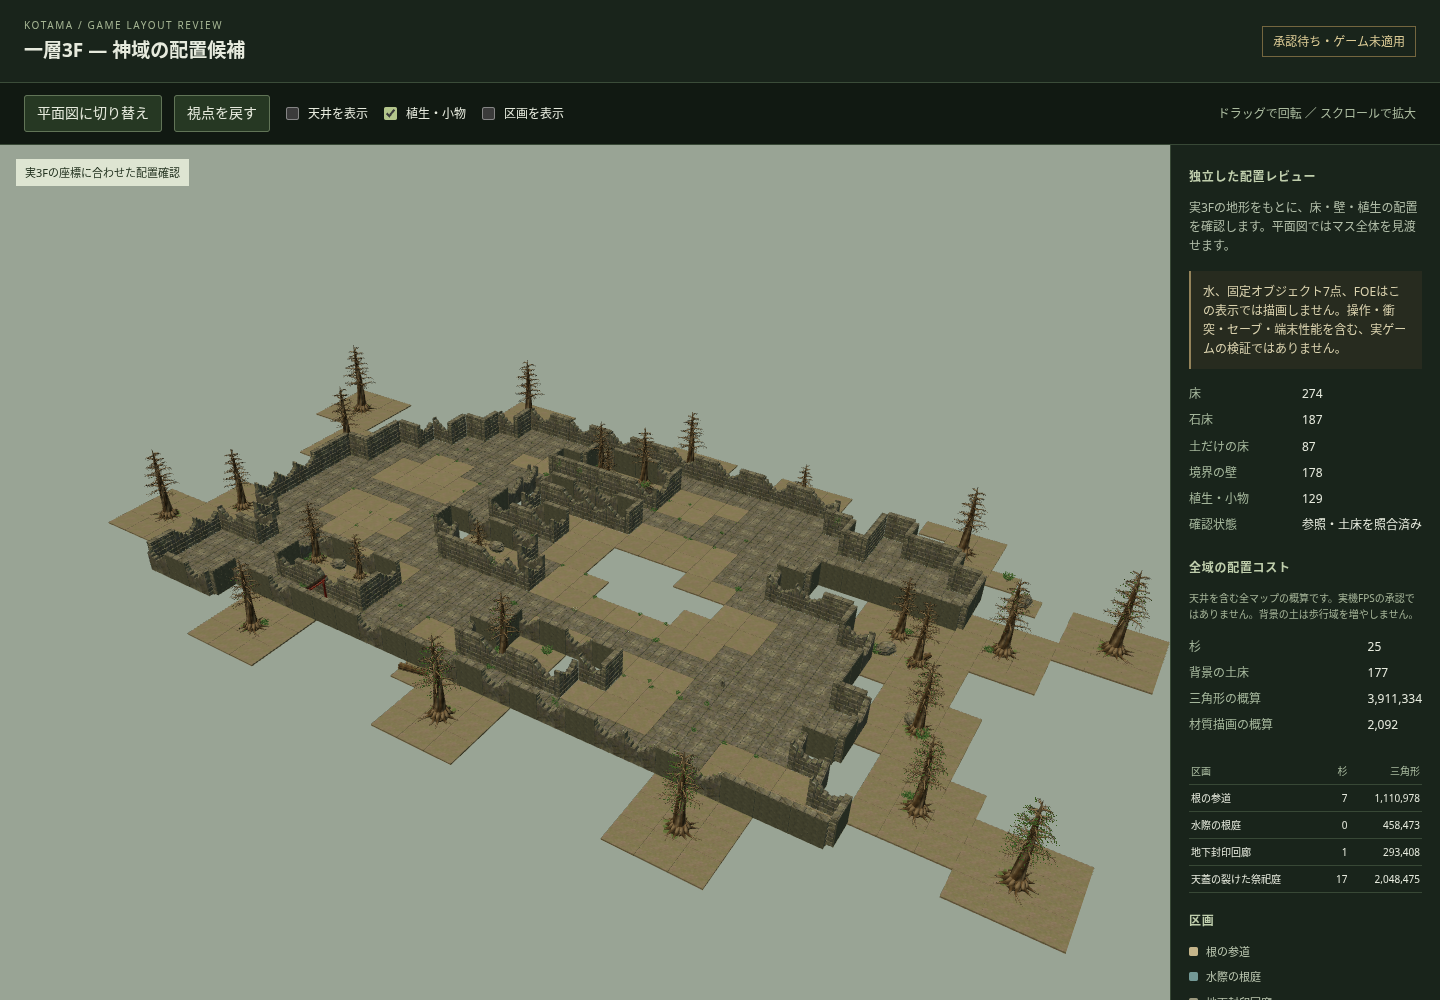
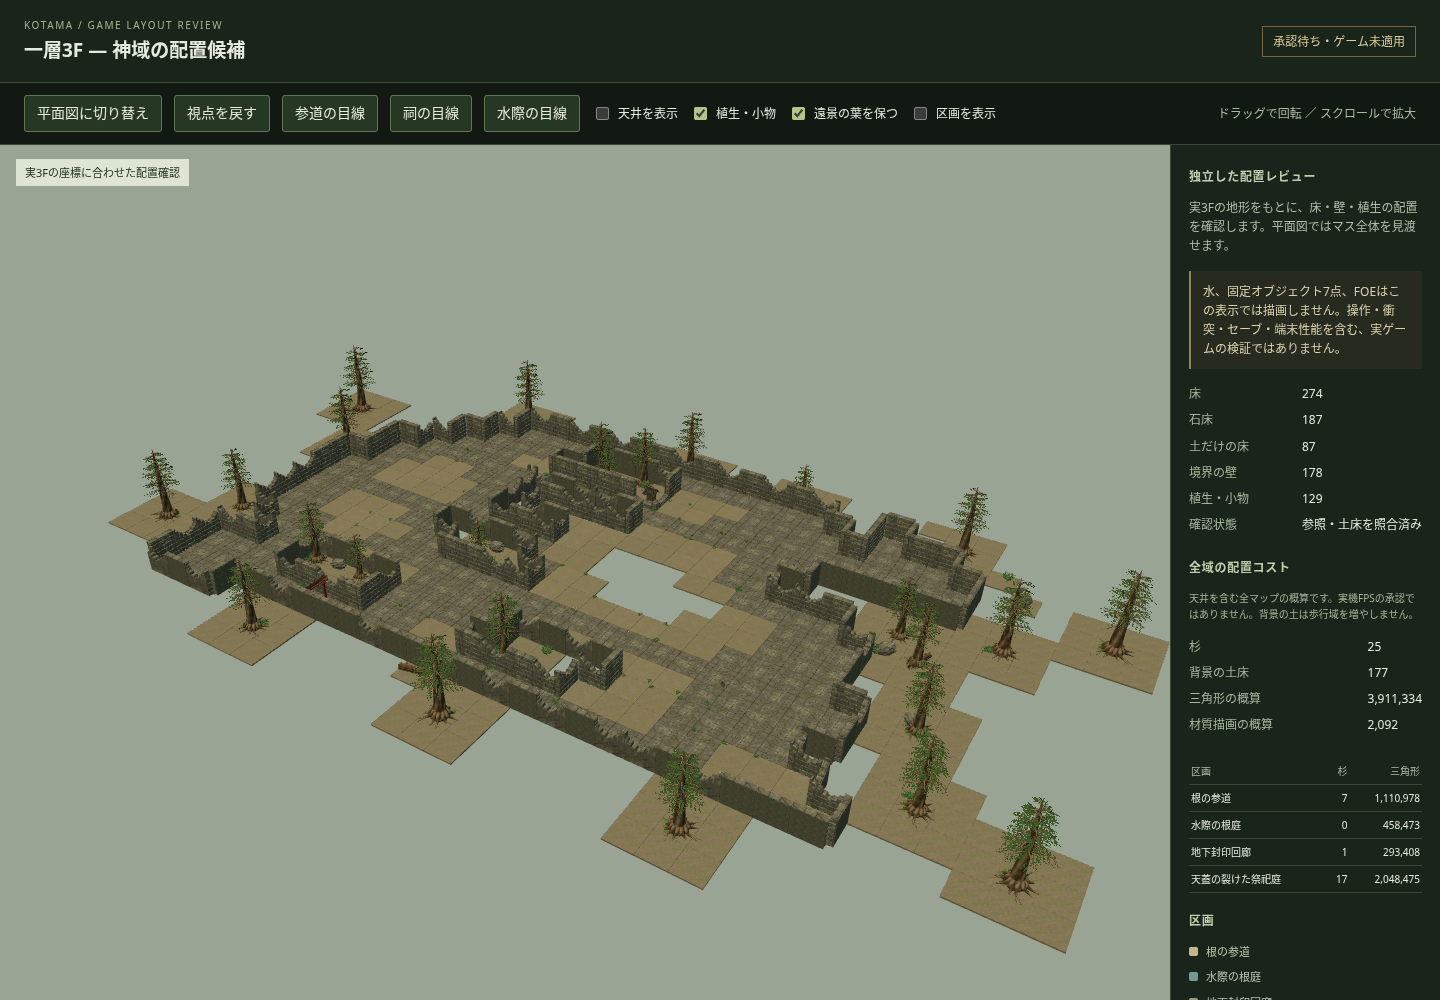
deliver(f1): preserve visible shrine and verified eye-height reviews

diff --git a/docs/3d/F1_SACRED_FOREST_CLAUDE_HANDOFF.md b/docs/3d/F1_SACRED_FOREST_CLAUDE_HANDOFF.md
@@ -87,3 +87,5 @@ mainへはユーザーの明示承認なしにマージしません。
 ### 開発ブランチ更新への対応
 
 2026-11-17にdevelopment `7708b03` と比較し、map・field・移動/FOE・操作・保存・puzzleの6 sourceは一致。共有rendererには描画統計とB2 cache版の変更があるため、7 source全一致とは扱わない。`verification/development-baseline-check.json`を参照。統合時は最新development側の変更を保持し、確認した完全commit SHAを `F1_LAYOUT_BASELINE=<40桁SHA> node tools/f1-sacred-forest/build_game_layout.cjs --require-assets` に指定して再生成・ブラウザ検証する。指定したbaselineと実sourceが違えば生成を拒否する。デフォルトの保存済み候補は元baseline ae7995aのまま。
+
+近景reviewは元walkセル中心/目高1.6m。祠の正面2壁は既存collapsed wallを縦0.32の低い囲いとし、178壁/通行不可は維持する。`preview/f1-foliage-coverage.js`は独立viewerの任意sampling補助で、source alphaCutoffを保持してmip coverageを補正する。採用する場合はGPUでのmip upload・テーマ破棄時のtexture lifetimeを対象環境で検証する。既にゲームへ導入したとは扱わない。

diff --git a/docs/reviews/f1-sacred-forest-game-layout/README.md b/docs/reviews/f1-sacred-forest-game-layout/README.md
@@ -24,3 +24,9 @@ node tools/f1-sacred-forest/verify-game-layout-preview.cjs
 ```
 
 ブラウザ検証の出力先は `/workspace/work/f1-game-layout-review/`。本フォルダは実行成功後のコピーであり、凍結したデモ5視点・68個別PNG・scene GLB/Blend・既存verificationとは別の記録。
+
+## 目高と遠景samplingの追検査（2026-11-17）
+
+[参道](near-approach.png) / [祠](near-shrine.png) / [水際](near-water.png)は元の歩行セル中心・目高1.6mからの独立ビュー。祠の正面2面を低い石囲いにした後、全3視点で壁による遮蔽なしをrayと実画像で確認。map・壁の位置/厚み・blocked状態は保持しています。
+
+[元の葉のsampling](needle-raw.png) / [coverage mip補正](needle-coverage.png)。元GLBとalphaCutoffを変更せず、独立viewerのThree DataTextureで縮小時のcutout被覆率を保ちます。補正前後を切替可能。実GPU upload・3視点・9不一致拒否・上面/変換検査を含む再実行はerror/warning0。補正は描画補助であり、元GLBに焼き込んだ修正や遠景LOD全般の承認ではありません。
